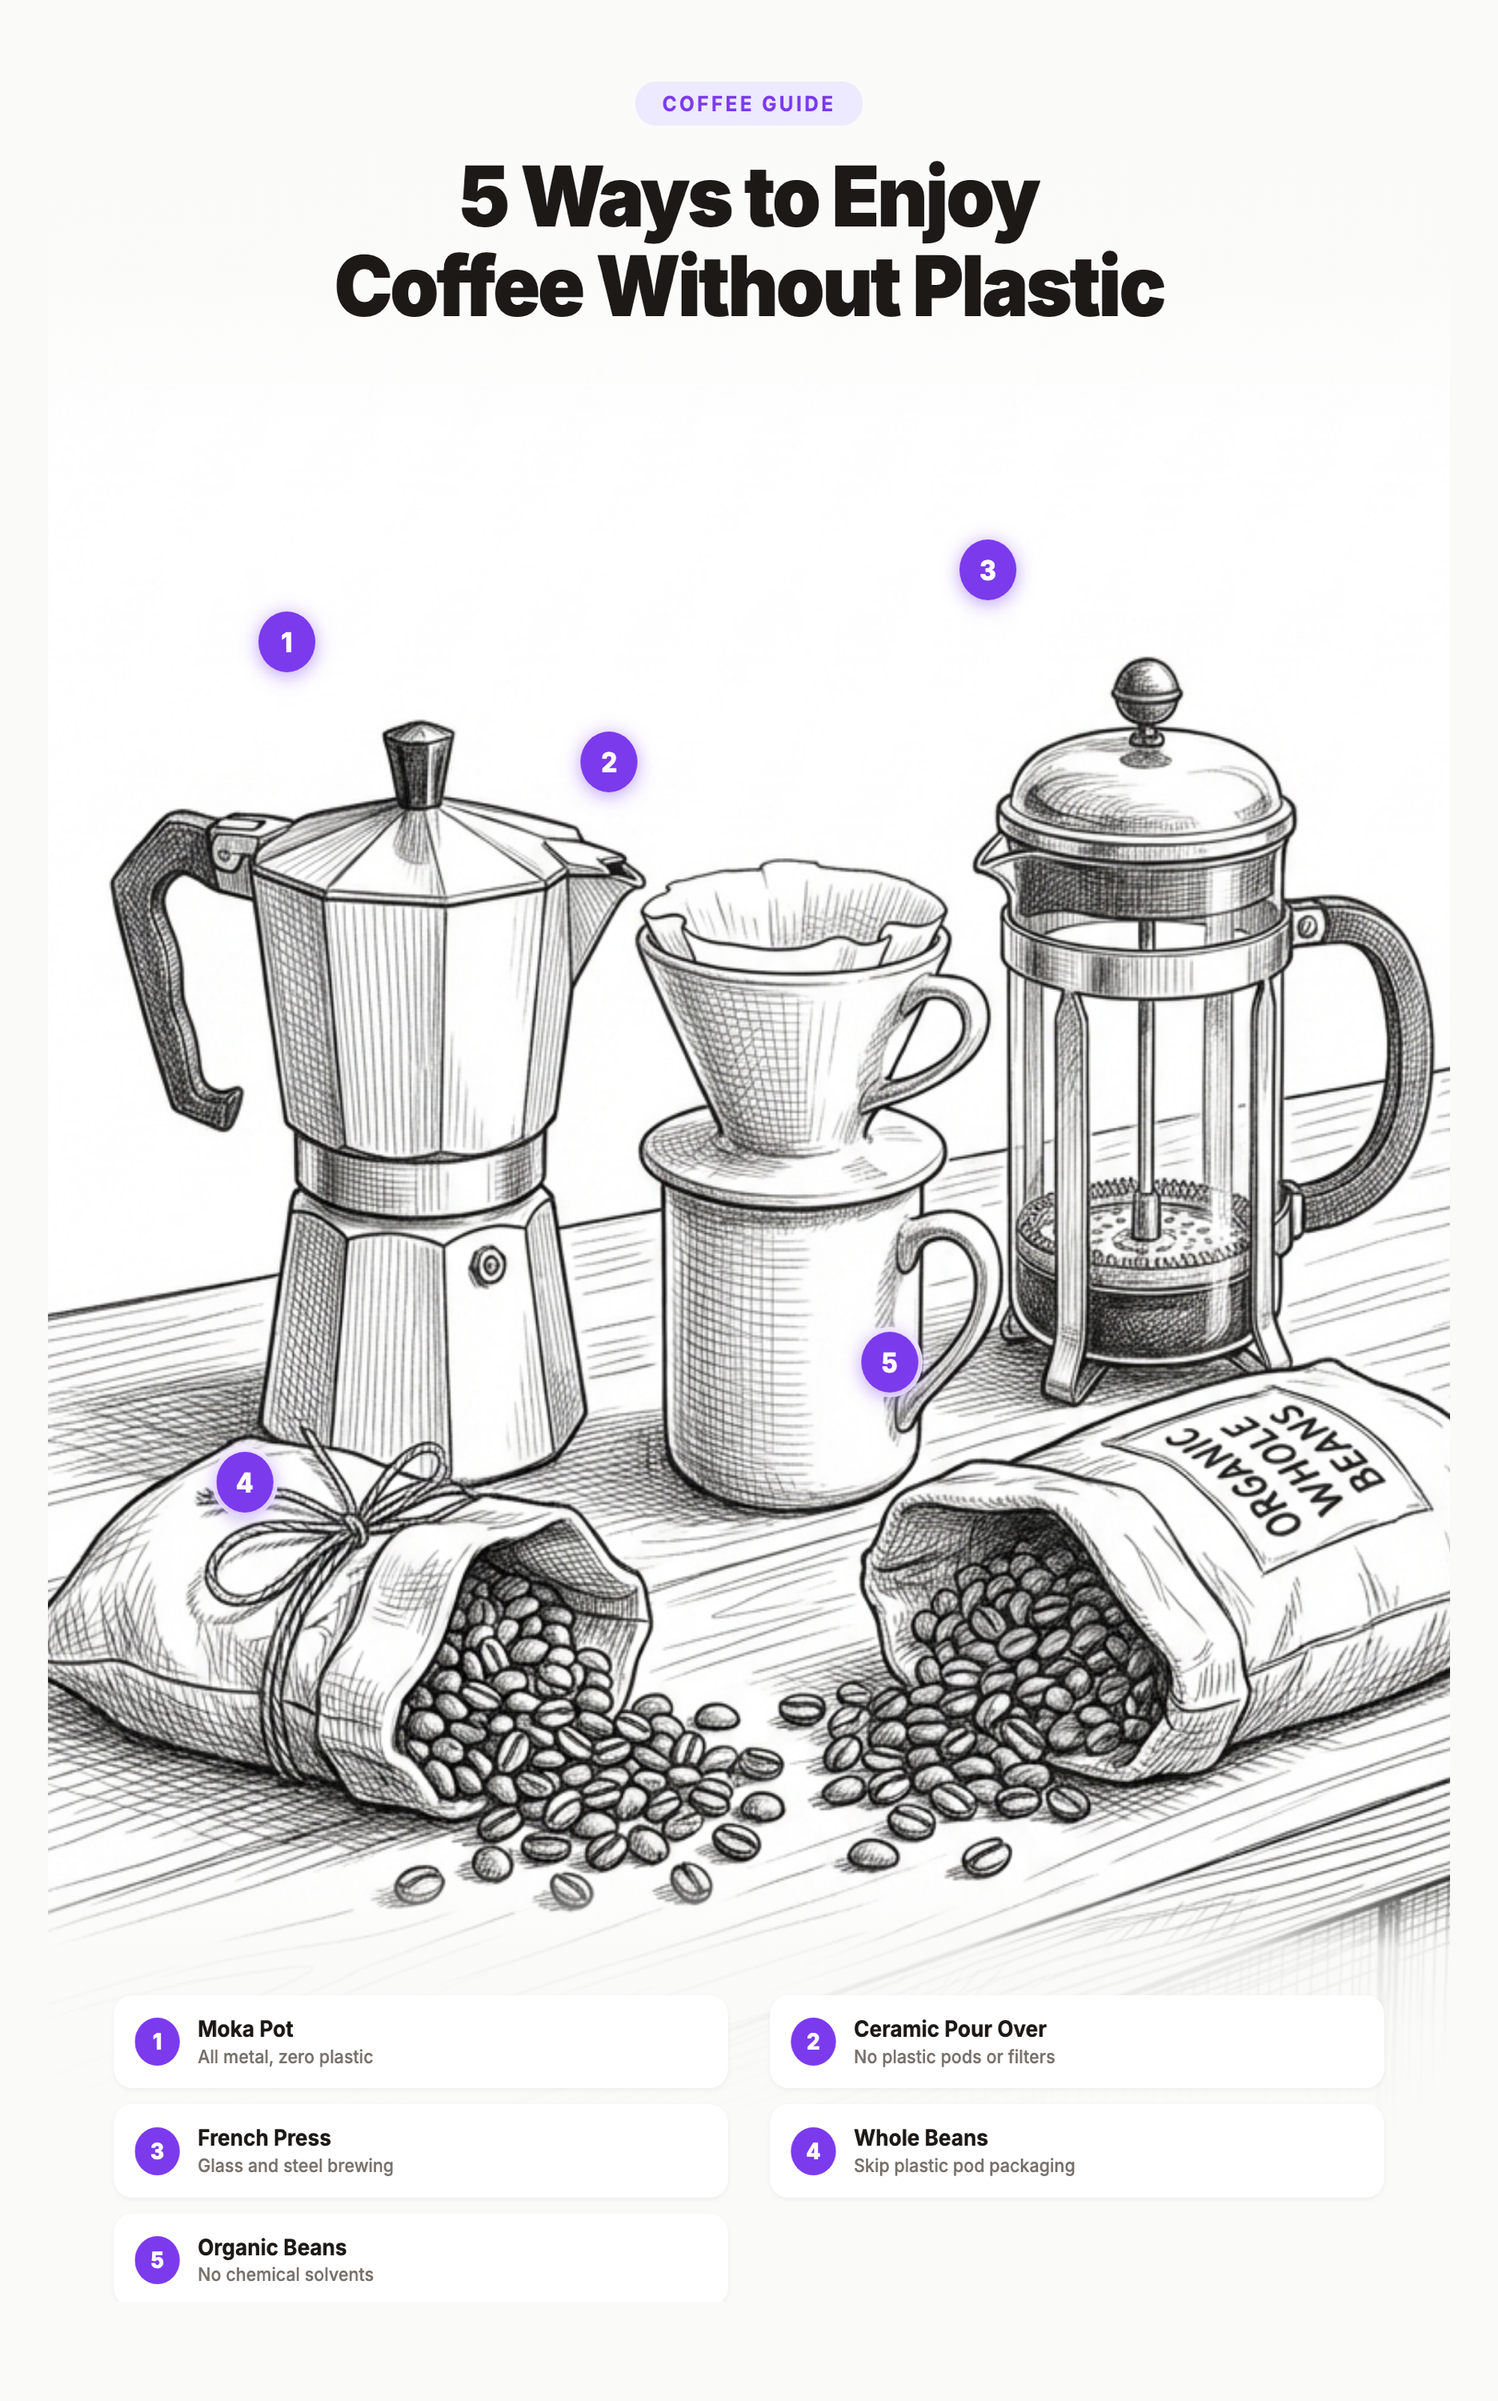
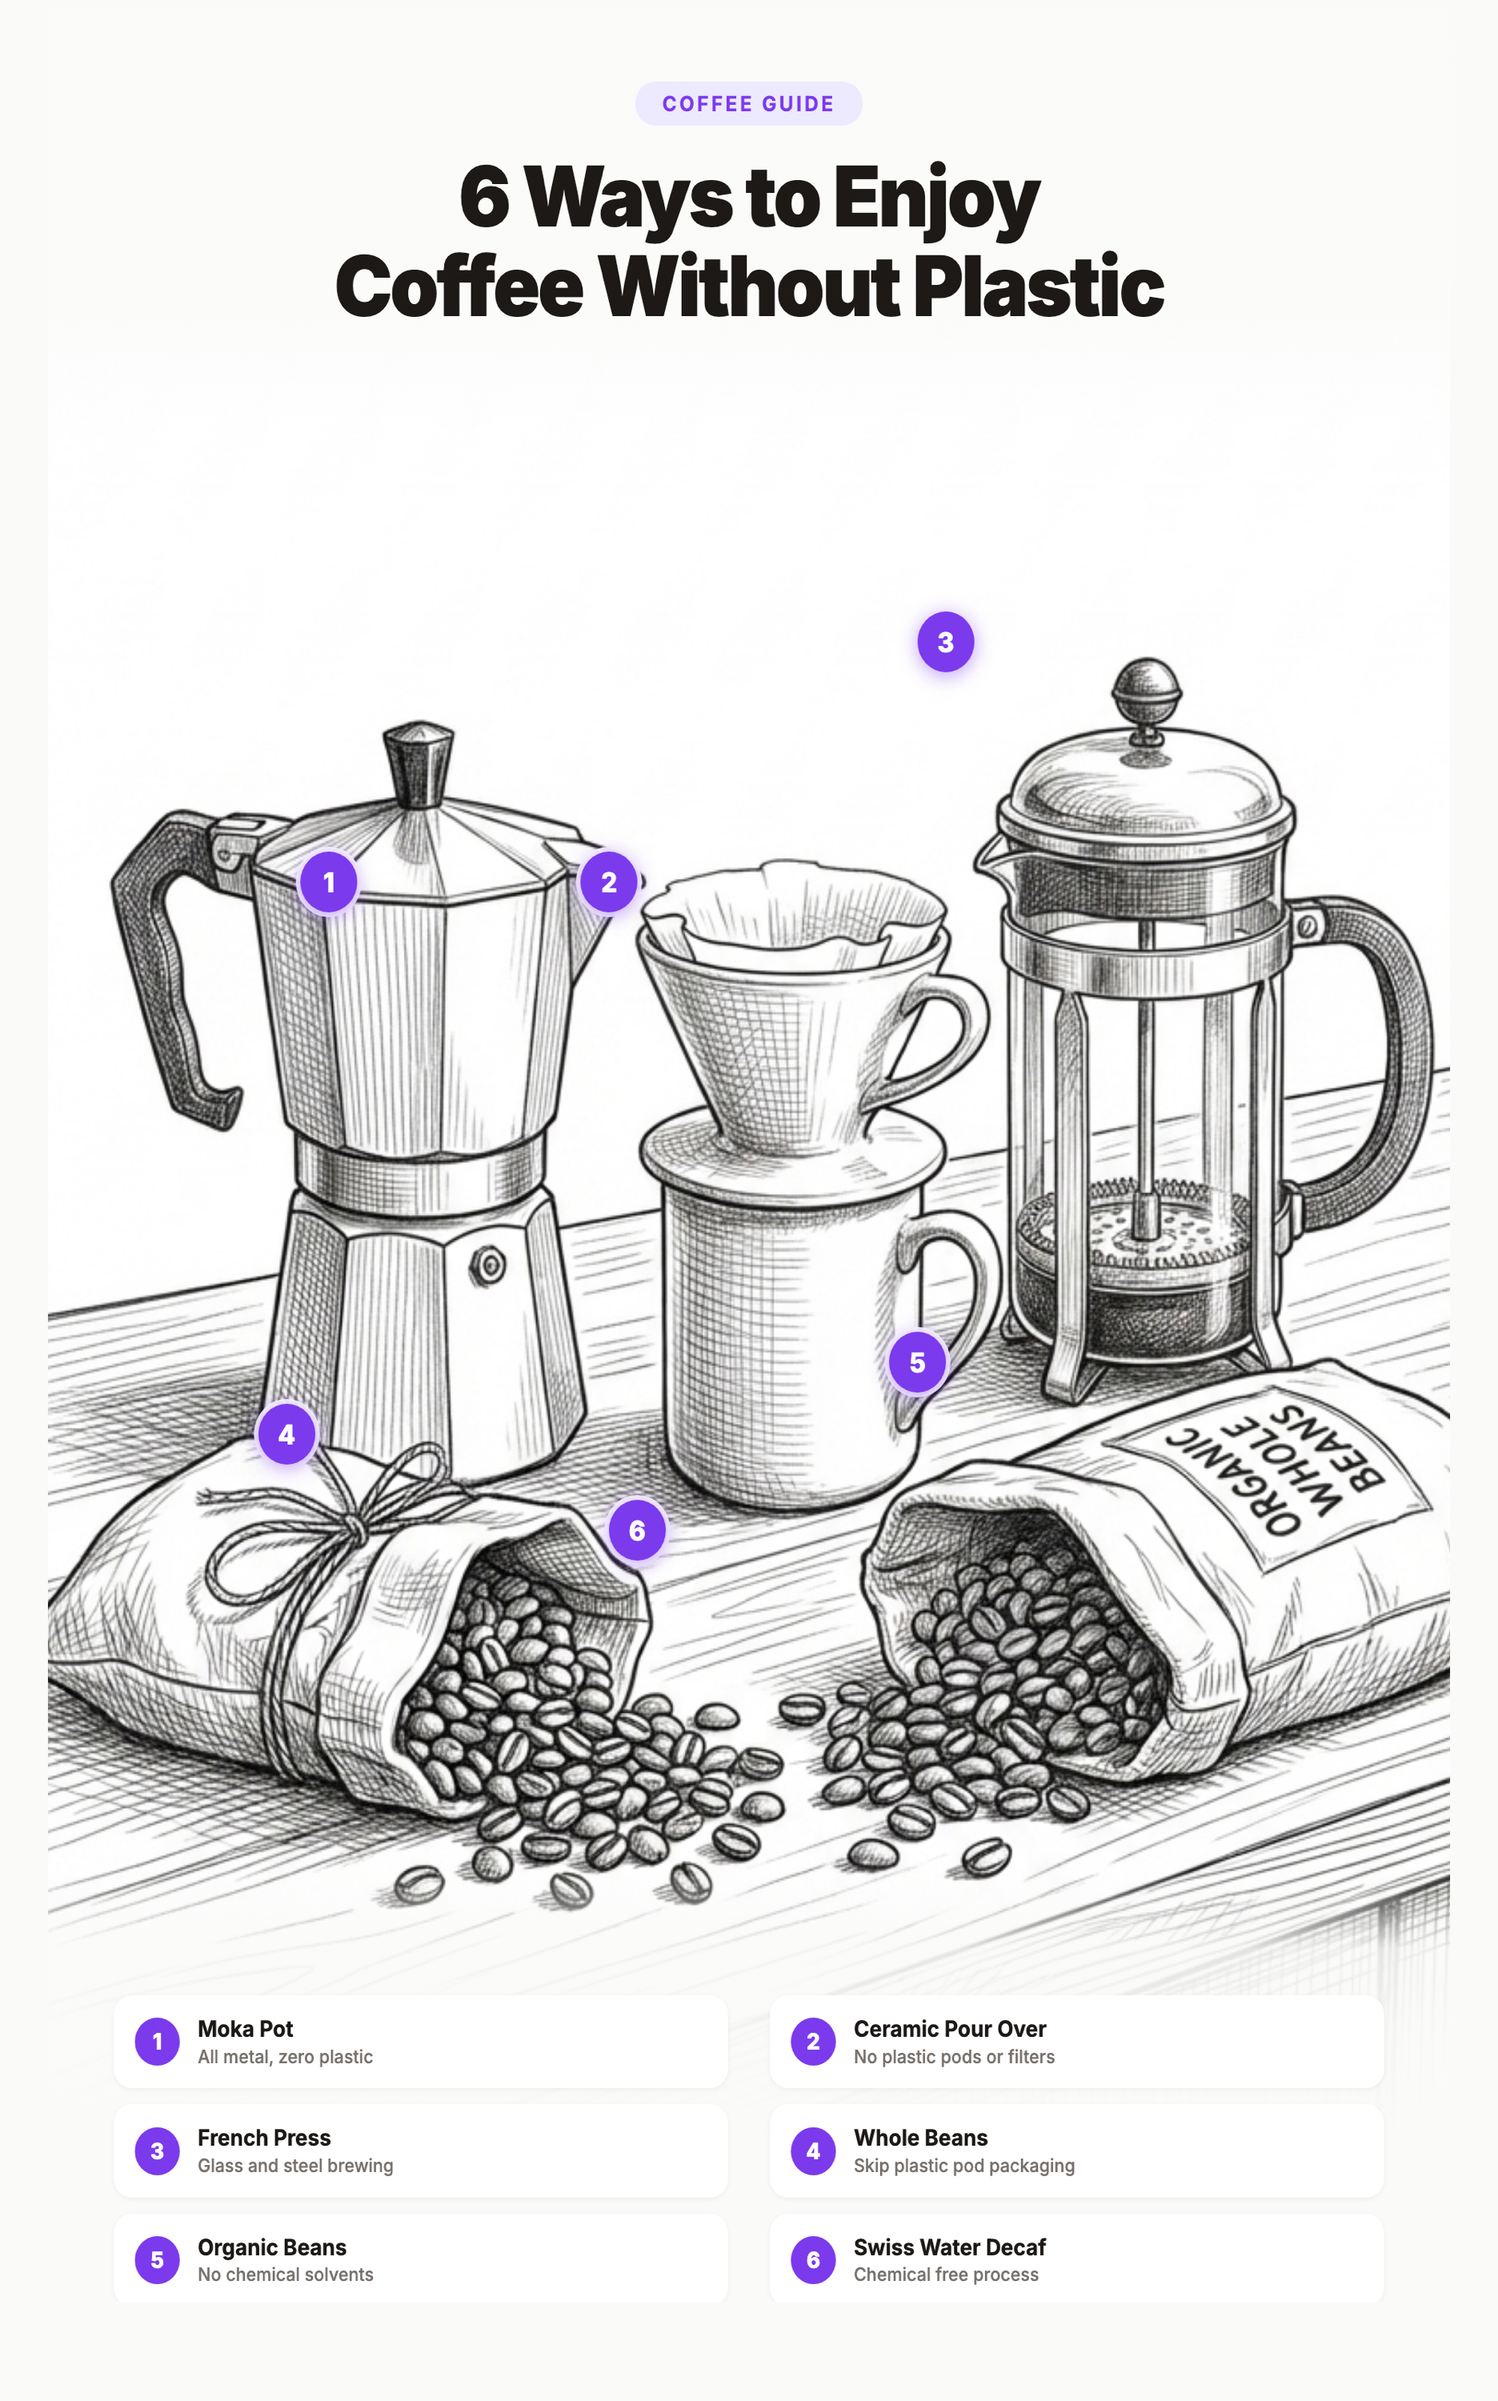
Fix coffee pin: reposition badges, add Swiss Water Decaf as 6th swap

diff --git a/articles/how-to-enjoy-coffee-without-plastic.html b/articles/how-to-enjoy-coffee-without-plastic.html
@@ -24,7 +24,7 @@
   <meta name="twitter:description" content="Your daily coffee habit may expose you to billions of microplastic particles. Learn which brewing methods, beans, and cups are safest.">
   <meta name="twitter:image" content="https://plasticdetox.org/images/coffee-swap-pinterest.webp">
 
-  <meta name="pin:description" content="5 Ways to Enjoy Coffee Without Plastic. A single pod releases billions of nanoplastics. Brew with a moka pot, ceramic pour over, or French press. Choose organic whole beans.">
+  <meta name="pin:description" content="6 Ways to Enjoy Coffee Without Plastic. A single pod releases billions of nanoplastics. Brew with a moka pot, ceramic pour over, or French press. Choose organic whole beans.">
   <meta name="pin:url" content="https://plasticdetox.org/articles/how-to-enjoy-coffee-without-plastic.html">
   <meta name="pin:media" content="https://plasticdetox.org/images/coffee-swap-pinterest.webp">
 
@@ -204,7 +204,7 @@
         <svg viewBox="0 0 24 24"><path d="M12 0C5.373 0 0 5.373 0 12c0 5.084 3.163 9.426 7.627 11.174-.105-.949-.2-2.405.042-3.441.218-.937 1.407-5.965 1.407-5.965s-.359-.719-.359-1.782c0-1.668.967-2.914 2.171-2.914 1.023 0 1.518.769 1.518 1.69 0 1.029-.655 2.568-.994 3.995-.283 1.194.599 2.169 1.777 2.169 2.133 0 3.772-2.249 3.772-5.495 0-2.873-2.064-4.882-5.012-4.882-3.414 0-5.418 2.561-5.418 5.207 0 1.031.397 2.138.893 2.738a.36.36 0 0 1 .083.345l-.333 1.36c-.053.22-.174.267-.402.161-1.499-.698-2.436-2.889-2.436-4.649 0-3.785 2.75-7.262 7.929-7.262 4.163 0 7.398 2.967 7.398 6.931 0 4.136-2.607 7.464-6.227 7.464-1.216 0-2.359-.631-2.75-1.378l-.748 2.853c-.271 1.043-1.002 2.35-1.492 3.146C9.57 23.812 10.763 24 12 24c6.627 0 12-5.373 12-12S18.627 0 12 0z"/></svg>
         Save
       </a>
-      <img class="pin-img" src="../images/coffee-swap-pinterest.webp" alt="Illustration of 5 plastic free coffee brewing methods: moka pot, ceramic pour over, French press, whole beans, and organic beans" data-pin-description="5 Ways to Enjoy Coffee Without Plastic. Brew with a moka pot, ceramic pour over, or French press. Choose organic whole beans.">
+      <img class="pin-img" src="../images/coffee-swap-pinterest.webp" alt="Illustration of 5 plastic free coffee brewing methods: moka pot, ceramic pour over, French press, whole beans, and organic beans" data-pin-description="6 Ways to Enjoy Coffee Without Plastic. Brew with a moka pot, ceramic pour over, or French press. Choose organic whole beans.">
     </div>
 
     <nav class="toc">

diff --git a/images/coffee-swap-pinterest.html b/images/coffee-swap-pinterest.html
@@ -87,11 +87,12 @@
       z-index: 3;
     }
 
-    .badge-1 { left: 15%; top: 25%; }
-    .badge-2 { left: 38%; top: 30%; }
-    .badge-3 { left: 65%; top: 22%; }
-    .badge-4 { left: 12%; top: 60%; }
-    .badge-5 { left: 58%; top: 55%; }
+    .badge-1 { left: 18%; top: 35%; }
+    .badge-2 { left: 38%; top: 35%; }
+    .badge-3 { left: 62%; top: 25%; }
+    .badge-4 { left: 15%; top: 58%; }
+    .badge-5 { left: 60%; top: 55%; }
+    .badge-6 { left: 40%; top: 62%; }
 
     /* ─── BOTTOM: swap legend card ─── */
     .bottom-card {
@@ -181,7 +182,7 @@
 
     <div class="top-overlay">
       <div class="headline-tag">Coffee Guide</div>
-      <h1>5 Ways to Enjoy<br>Coffee Without Plastic</h1>
+      <h1>6 Ways to Enjoy<br>Coffee Without Plastic</h1>
     </div>
 
     <div class="badge badge-1">1</div>
@@ -189,6 +190,7 @@
     <div class="badge badge-3">3</div>
     <div class="badge badge-4">4</div>
     <div class="badge badge-5">5</div>
+    <div class="badge badge-6">6</div>
 
     <div class="bottom-card">
       <div class="swaps">
@@ -211,6 +213,10 @@
         <div class="swap">
           <div class="swap-num">5</div>
           <div class="swap-text">Organic Beans<span>No chemical solvents</span></div>
+        </div>
+        <div class="swap">
+          <div class="swap-num">6</div>
+          <div class="swap-text">Swiss Water Decaf<span>Chemical free process</span></div>
         </div>
       </div>
       <div class="footer">
